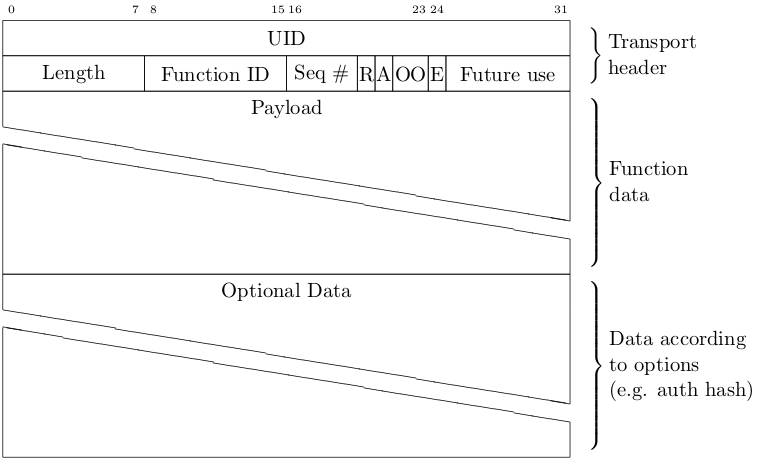
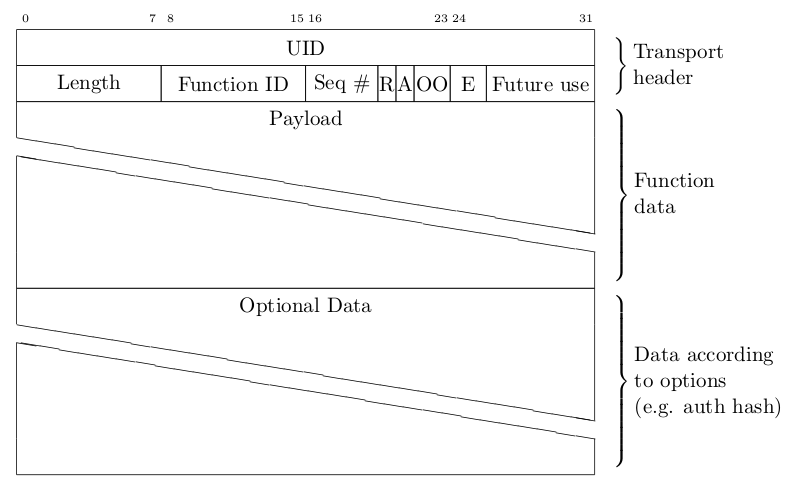
protocol 2.0: Use 2 bit as error code

Changed region(s): [[0.0, 0.0, 1.0, 1.0], [0.091, 0.305, 0.3338, 0.3965], [0.3034, 0.366, 0.4551, 0.427]]

diff --git a/de/source/Protocol_20.rst b/de/source/Protocol_20.rst
@@ -43,6 +43,7 @@ This is efficient, since the Stack ID is only 1 byte in size, as can
 be seen in the old protocol structure below:
 
 .. image:: /Images/protocol_old.png
+   :scale: 100 %
    :alt: Old TF Protocol
    :align: center
    :target: ../../_images/protocol_old.png
@@ -93,6 +94,7 @@ new packet from a currently unknown device is received. Packets that
 have a currently unknown receiver are simply broadcasted.
 
 .. image:: /Images/protocol_new.png
+   :scale: 100 %
    :alt: TF Protocol 2.0
    :align: center
    :target: ../../_images/protocol_new.png
@@ -141,13 +143,21 @@ TF Protocol 2.0 packages are constructed as follows:
 
 * **Flags (8 bit)**:
 
- * **E [Error] (1 bit)**: This flag can be set by a Brick or Bricklet in an
-   answer message to a function call. It means that an error occurred.
+ * **Error Code (2 bit)**: This number can be set by a Brick or Bricklet in an
+   answer message to a function call. If it is different from zero it means that
+   an error occurred.
    Example: With the current protocol, if you call the ``setPosition`` function
    for a Servo Brick and you address a servo that is greater then 7 (does
    not exist), the message is discarded and there is no response from the Brick.
-   With the E flag, a Brick/Bricklet can clarify that something went wrong.
+   With the error code, a Brick/Bricklet can clarify that something went wrong.
    For a setter this is of course only possible if the R option is set.
+   Possible error codes are:
+
+  * 0 = OK
+  * 1 = BAD_PARAMETERS (index out of range or similar)
+  * 2 = FUNCTION_NOT_SUPPORTED
+  * Value 3 is not used yet.
+
  * **Future use (7 bit)**: Seven possible flags for future use.
 
 * **Payload (0-512 bit)**: The data of the function call (as in the old

diff --git a/en/source/Protocol_20.rst b/en/source/Protocol_20.rst
@@ -43,6 +43,7 @@ This is efficient, since the Stack ID is only 1 byte in size, as can
 be seen in the old protocol structure below:
 
 .. image:: /Images/protocol_old.png
+   :scale: 100 %
    :alt: Old TF Protocol
    :align: center
    :target: ../../_images/protocol_old.png
@@ -93,6 +94,7 @@ new packet from a currently unknown device is received. Packets that
 have a currently unknown receiver are simply broadcasted.
 
 .. image:: /Images/protocol_new.png
+   :scale: 100 %
    :alt: TF Protocol 2.0
    :align: center
    :target: ../../_images/protocol_new.png
@@ -141,13 +143,21 @@ TF Protocol 2.0 packages are constructed as follows:
 
 * **Flags (8 bit)**:
 
- * **E [Error] (1 bit)**: This flag can be set by a Brick or Bricklet in an
-   answer message to a function call. It means that an error occurred.
+ * **Error Code (2 bit)**: This number can be set by a Brick or Bricklet in an
+   answer message to a function call. If it is different from zero it means that
+   an error occurred.
    Example: With the current protocol, if you call the ``setPosition`` function
    for a Servo Brick and you address a servo that is greater then 7 (does
    not exist), the message is discarded and there is no response from the Brick.
-   With the E flag, a Brick/Bricklet can clarify that something went wrong.
+   With the error code, a Brick/Bricklet can clarify that something went wrong.
    For a setter this is of course only possible if the R option is set.
+   Possible error codes are:
+
+  * 0 = OK
+  * 1 = BAD_PARAMETERS (index out of range or similar)
+  * 2 = FUNCTION_NOT_SUPPORTED
+  * Value 3 is not used yet.
+
  * **Future use (7 bit)**: Seven possible flags for future use.
 
 * **Payload (0-512 bit)**: The data of the function call (as in the old
